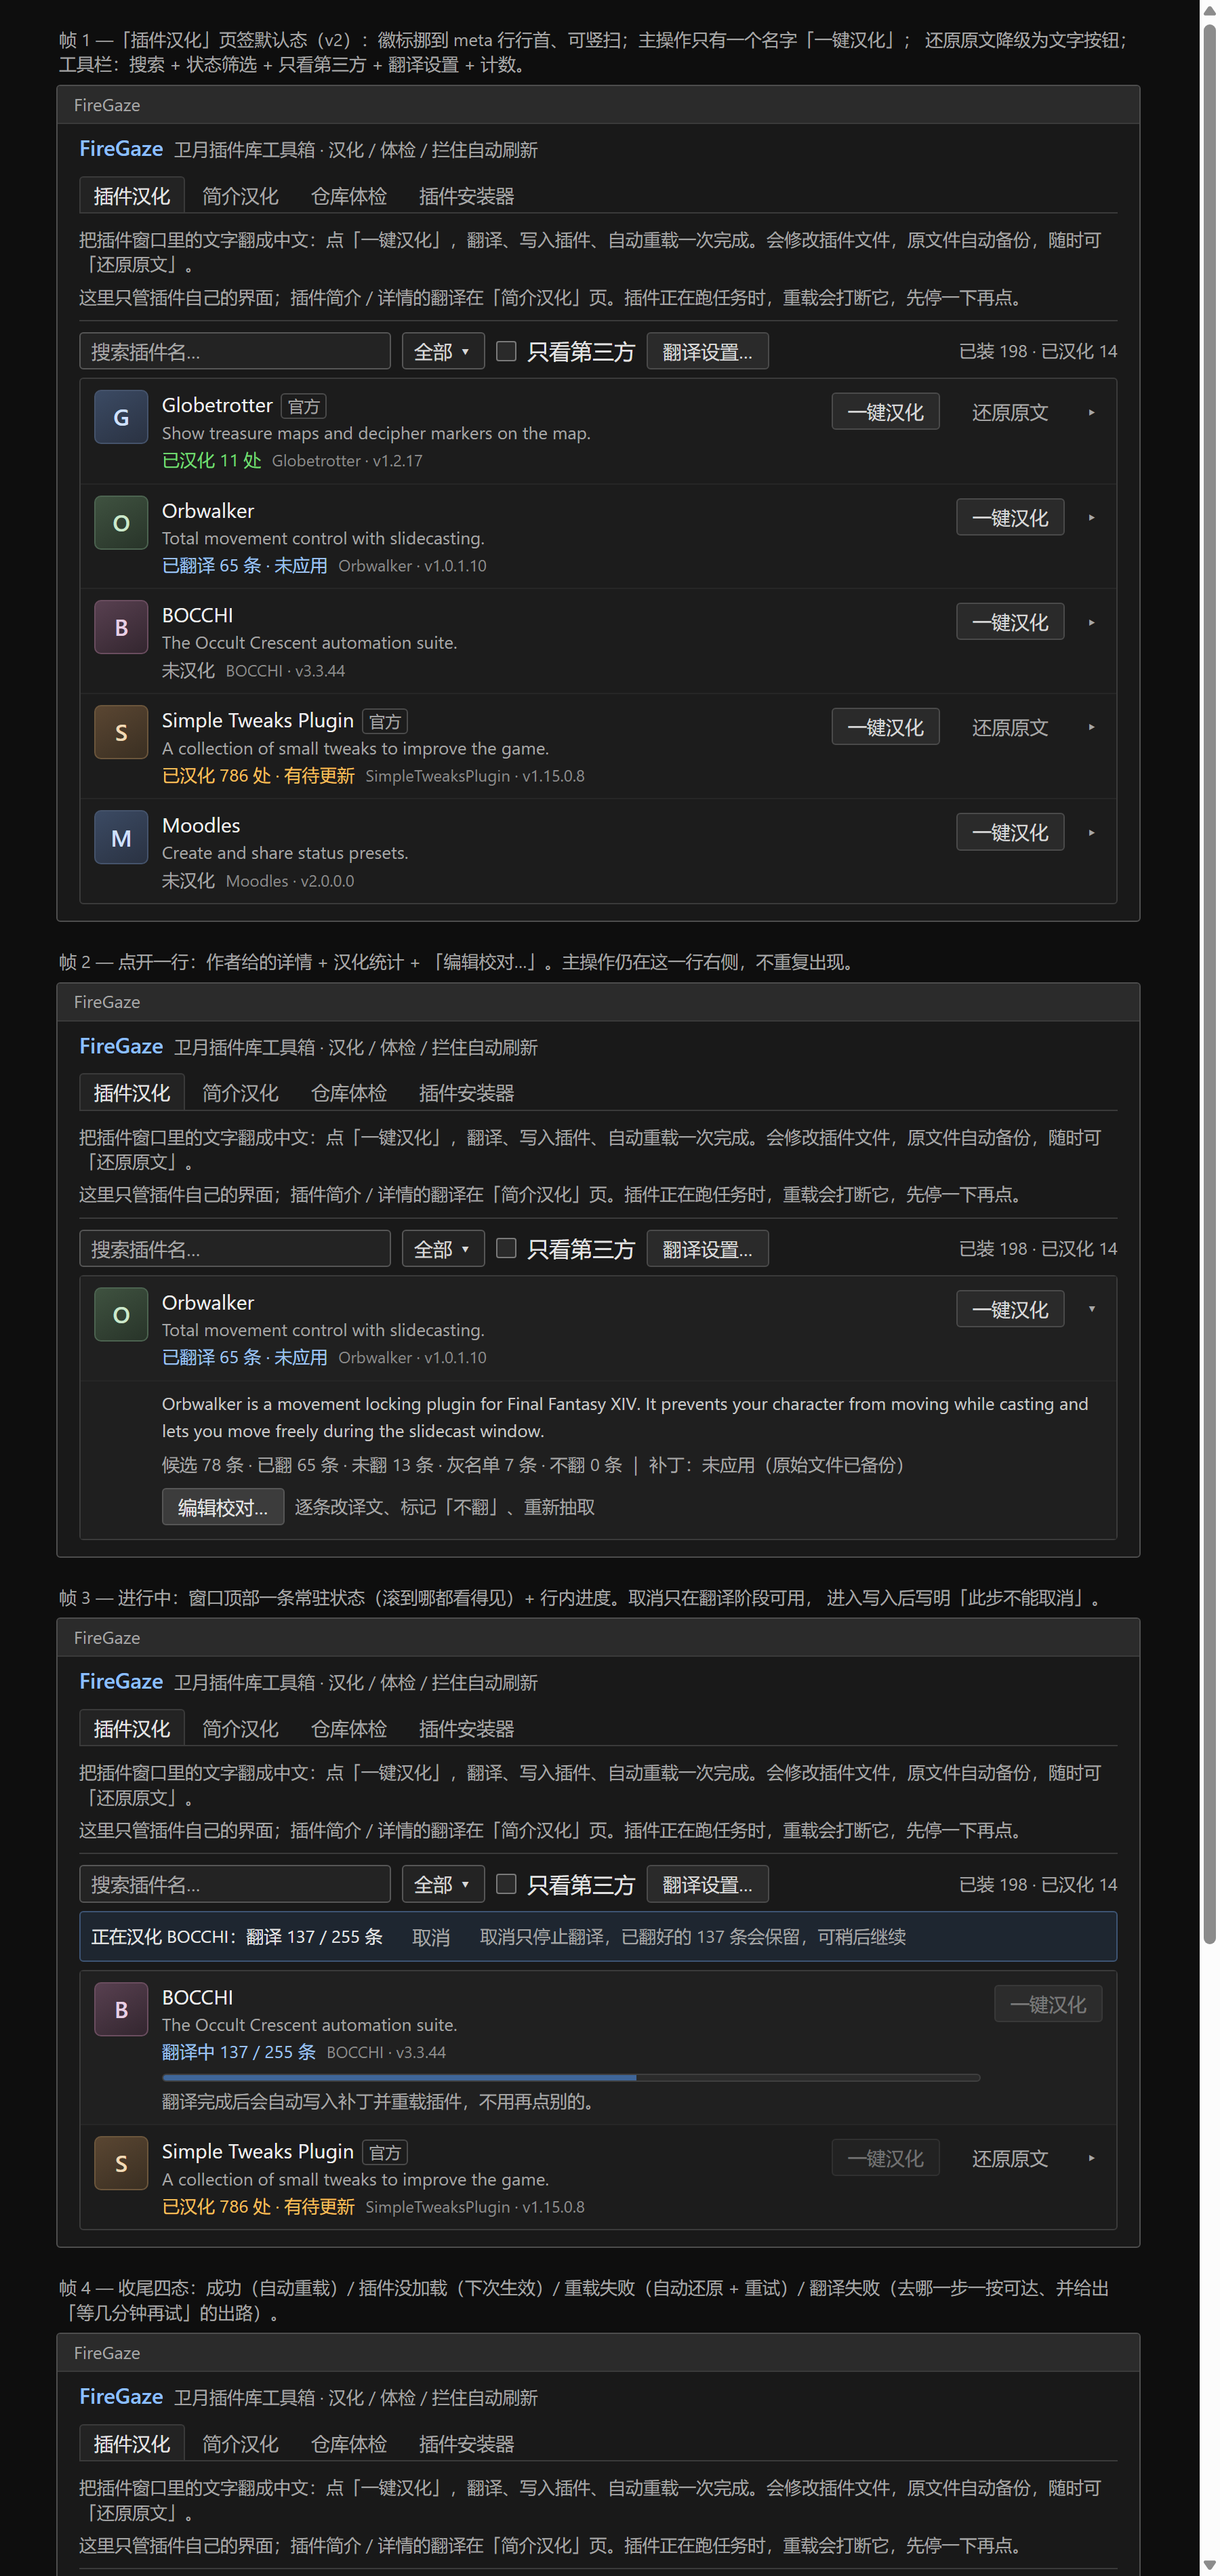
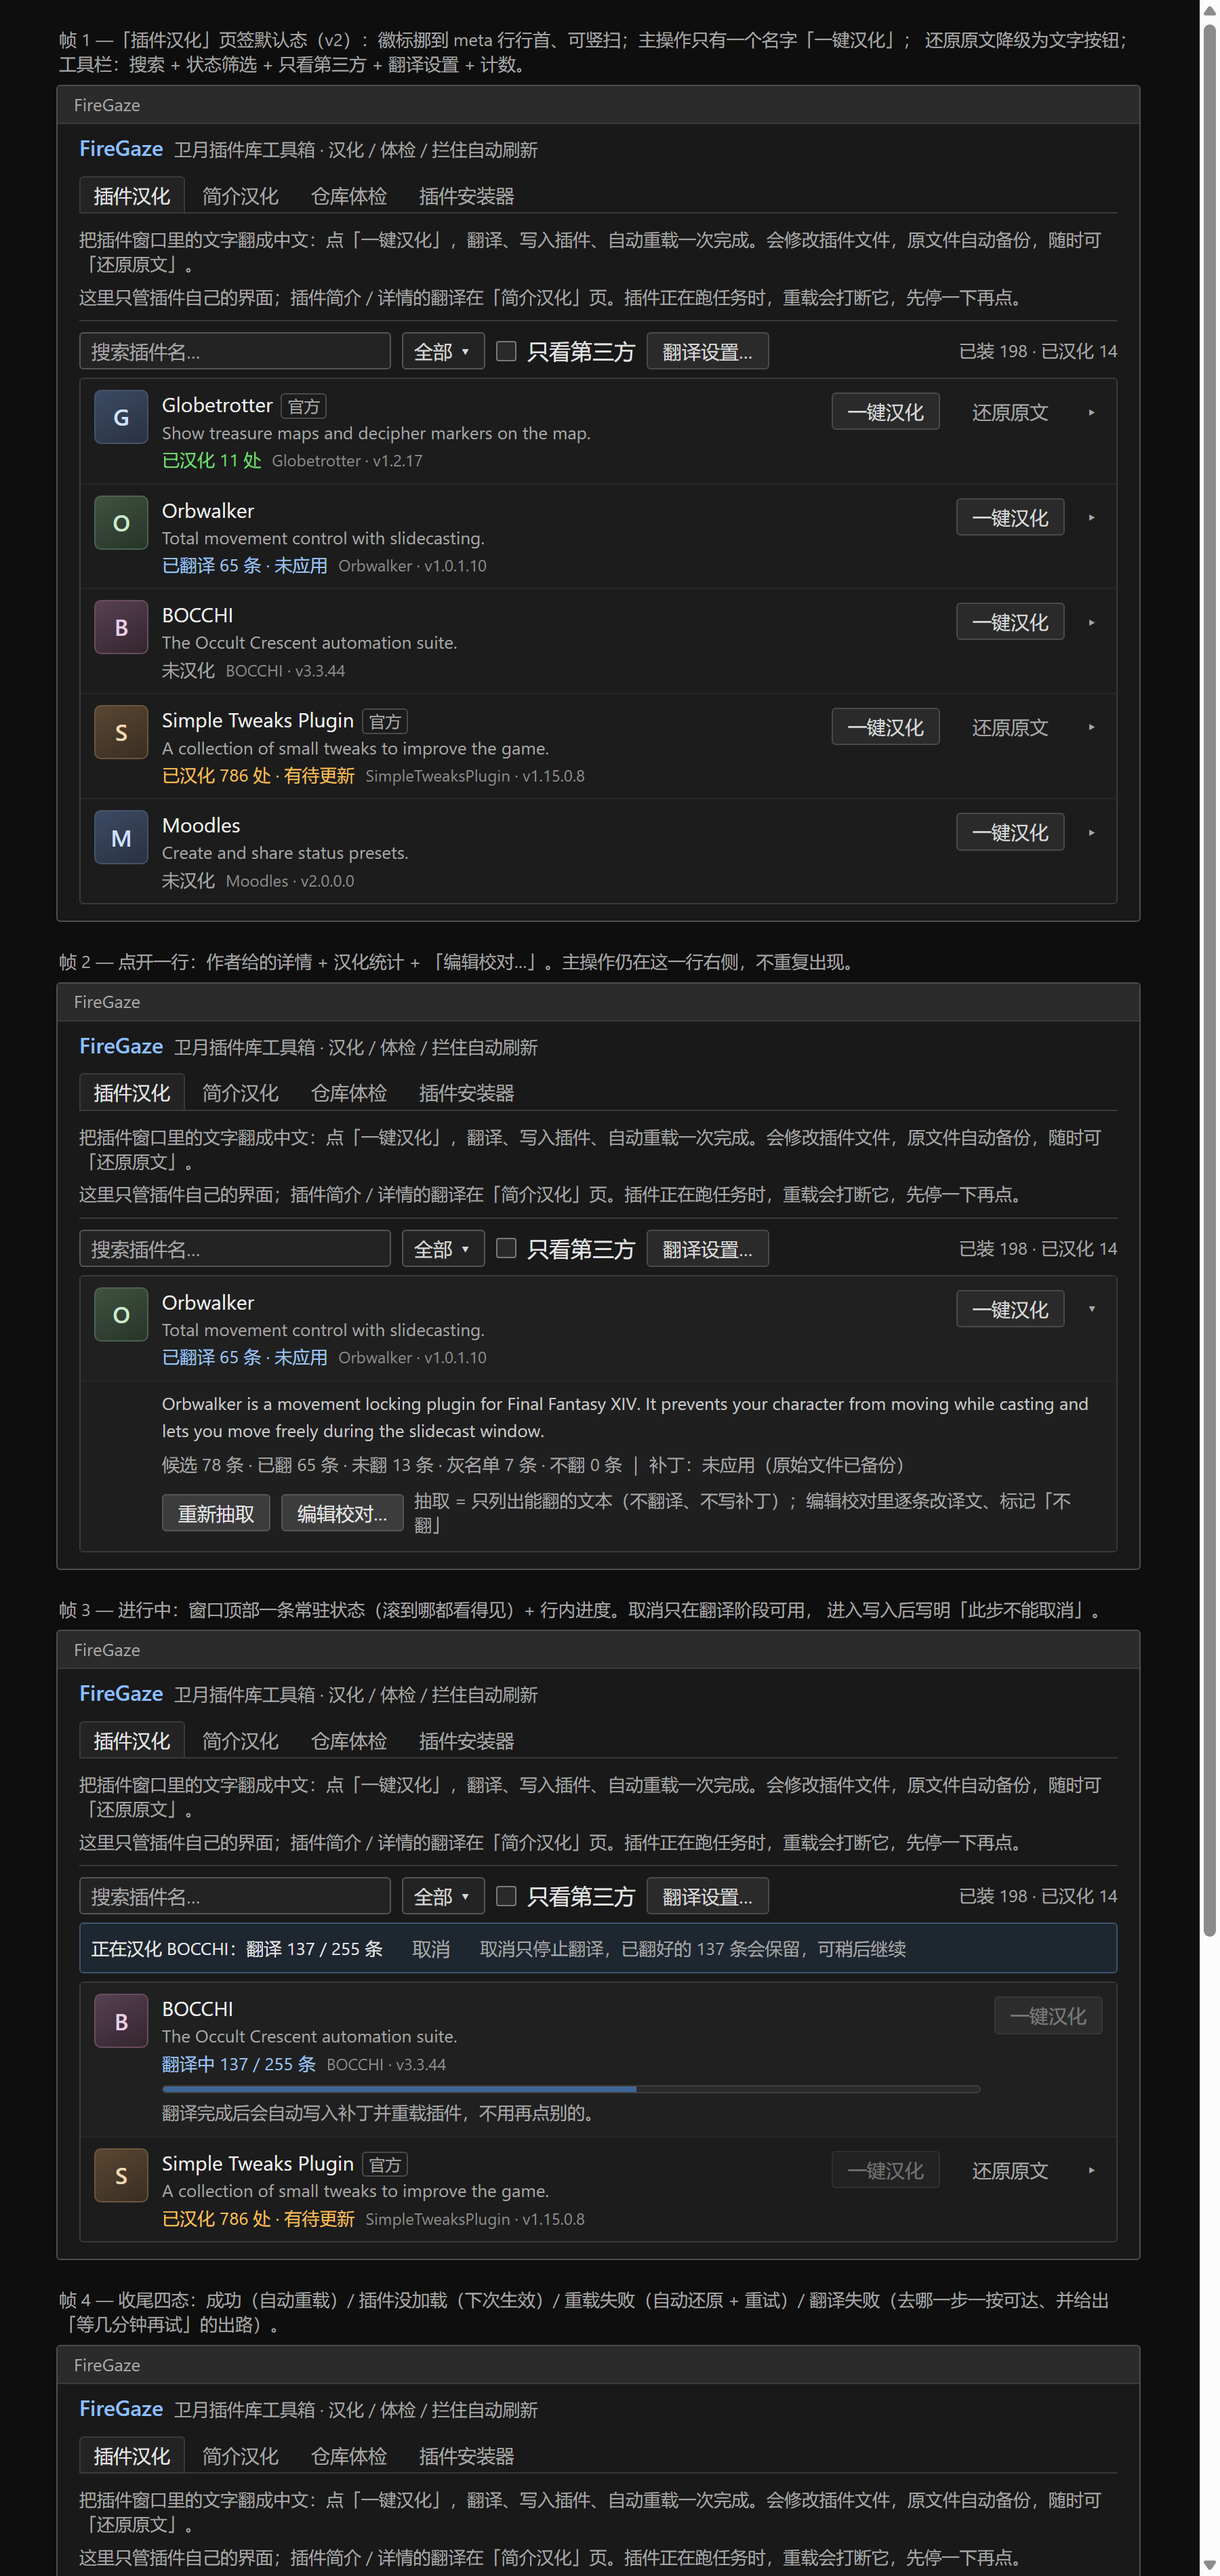
feat(uit): 详情区加「抽取界面文本 / 重新抽取」（只列候选，不翻译不写补丁）+ 还原图同步（1.2.0.44）

Changed region(s): [[0.0311, 0.5589, 0.9333, 1.0]]

diff --git a/Resources/ui-mockup-uitext-list-v2.html b/Resources/ui-mockup-uitext-list-v2.html
@@ -193,8 +193,9 @@
             <div class="desc">Orbwalker is a movement locking plugin for Final Fantasy XIV. It prevents your character from moving while casting and lets you move freely during the slidecast window.</div>
             <div class="stats">候选 78 条 · 已翻 65 条 · 未翻 13 条 · 灰名单 7 条 · 不翻 0 条 ｜ 补丁：未应用（原始文件已备份）</div>
             <div class="actions">
+              <span class="btn">重新抽取</span>
               <span class="btn">编辑校对…</span>
-              <span class="hint">逐条改译文、标记「不翻」、重新抽取</span>
+              <span class="hint">抽取 = 只列出能翻的文本（不翻译、不写补丁）；编辑校对里逐条改译文、标记「不翻」</span>
             </div>
           </div>
         </div>

diff --git a/src/FireGaze/UI/UITextTab.cs b/src/FireGaze/UI/UITextTab.cs
@@ -55,9 +55,19 @@ internal sealed class UITextTab
         public DateTime CreatedAt = DateTime.Now;
     }
 
+    private enum RunMode
+    {
+        /// <summary>一键汉化：抽取 → 翻译 → 写入 → 重载。</summary>
+        Full,
+
+        /// <summary>只抽取：列出候选与统计，不翻译、不写补丁。</summary>
+        ExtractOnly,
+    }
+
     private sealed class Run
     {
         public string InternalName = string.Empty;
+        public RunMode Mode = RunMode.Full;
         public string Stage = string.Empty;
         public bool CanCancel;
         public int Done;
@@ -212,7 +222,8 @@ internal sealed class UITextTab
         ImGui.PushStyleColor(ImGuiCol.ChildBg, new Vector4(0.12f, 0.15f, 0.19f, 1f));
         if (ImGui.BeginChild("###UITextRunning", new Vector2(0, ImGui.GetFrameHeight() + 8)))
         {
-            UiHelpers.ColoredText(run.CanCancel ? UiHelpers.Info : UiHelpers.Warn, $"正在汉化 {name}：{run.Stage}");
+            var verb = run.Mode == RunMode.ExtractOnly ? "正在抽取" : "正在汉化";
+            UiHelpers.ColoredText(run.CanCancel ? UiHelpers.Info : UiHelpers.Warn, $"{verb} {name}：{run.Stage}");
 
             if (run.CanCancel)
             {
@@ -364,7 +375,7 @@ internal sealed class UITextTab
         {
             ImGui.TableNextRow();
             ImGui.TableNextColumn();
-            this.DrawExpanded(plugin, info);
+            this.DrawExpanded(plugin, info, busy, editorOpen);
             ImGui.TableNextColumn();
         }
 
@@ -432,7 +443,7 @@ internal sealed class UITextTab
         }
     }
 
-    private void DrawExpanded(InstalledPluginEntry plugin, RowInfo? info)
+    private void DrawExpanded(InstalledPluginEntry plugin, RowInfo? info, bool busy, bool editorOpen)
     {
         ImGui.Indent(48f);
 
@@ -473,14 +484,38 @@ internal sealed class UITextTab
         }
 
         ImGui.Spacing();
+        var extracting = this.run is { Mode: RunMode.ExtractOnly } only
+                         && string.Equals(only.InternalName, plugin.InternalName, StringComparison.Ordinal);
+        ImGui.BeginDisabled(busy || editorOpen || extracting);
+        if (ImGui.Button(info is { HasPack: true } ? "重新抽取###UITextExtract" : "抽取界面文本###UITextExtract"))
+        {
+            this.StartExtract(plugin);
+        }
+
+        ImGui.EndDisabled();
+        if (ImGui.IsItemHovered(ImGuiHoveredFlags.AllowWhenDisabled))
+        {
+            ImGui.SetTooltip(extracting
+                ? "正在抽取…"
+                : busy || editorOpen
+                    ? "先把当前任务跑完再抽取。"
+                    : "只读一遍插件 DLL，列出能翻的界面文本（不翻译、不写补丁）。\n"
+                      + "插件更新过、或想先看看有多少文本，就点它；结果会记进本地包，编辑器里也能接着改。");
+        }
+
+        ImGui.SameLine();
+        ImGui.BeginDisabled(busy);
         if (ImGui.Button("编辑校对…###UITextOpenEditor"))
         {
             this.editor.OpenFor(plugin);
         }
 
-        if (ImGui.IsItemHovered())
+        ImGui.EndDisabled();
+        if (ImGui.IsItemHovered(ImGuiHoveredFlags.AllowWhenDisabled))
         {
-            ImGui.SetTooltip("逐条改译文、标记「不翻」、重新抽取。适合想自己核对的插件。");
+            ImGui.SetTooltip(busy
+                ? "先把当前任务跑完再进编辑器。"
+                : "逐条改译文、标记「不翻」、重新抽取。适合想自己核对的插件。");
         }
 
         ImGui.SameLine();
@@ -555,6 +590,32 @@ internal sealed class UITextTab
 
     // ── 一键汉化 ─────────────────────────────────────────────────────────
 
+    /// <summary>
+    ///     只抽取（不翻译、不写补丁）：把插件 DLL 里能翻的文本列出来并记进本地包。
+    /// </summary>
+    private void StartExtract(InstalledPluginEntry entry)
+    {
+        if (this.run is not null)
+        {
+            return;
+        }
+
+        if (!this.runs.TryEnter(entry.InternalName, "正在抽取 " + entry.DisplayName, out var reason))
+        {
+            this.notes[entry.InternalName] = new RowNote
+            {
+                Kind = NoteKind.Info,
+                Text = "另一个任务正在跑：" + reason + " 等它结束再点。",
+            };
+            return;
+        }
+
+        var run = new Run { InternalName = entry.InternalName, Mode = RunMode.ExtractOnly, Stage = "正在读取插件界面文本…" };
+        this.run = run;
+        this.notes.Remove(entry.InternalName);
+        run.Task = Task.Run(() => this.RunPipelineAsync(entry, run));
+    }
+
     private void StartOneClick(InstalledPluginEntry entry)
     {
         if (this.run is not null)
@@ -612,6 +673,20 @@ internal sealed class UITextTab
                     Kind = NoteKind.Info,
                     Text = "没找到可翻译的界面文本（插件可能带壳 / 加密，或界面本来就是中文）。",
                 });
+                return;
+            }
+
+            if (run.Mode == RunMode.ExtractOnly)
+            {
+                var summary = $"抽取完成：候选 {merge.UICount} 条 · 灰名单 {merge.AmbiguousCount} 条 · 已翻译 {pack.TranslatedCount} 条";
+                if (merge.Prune.Any)
+                {
+                    summary += " · " + merge.Prune.Describe();
+                }
+
+                summary += "。要翻译就点「一键汉化」，要逐条看就点「编辑校对…」。";
+                this.FinishRun(run, new RowNote { Kind = NoteKind.Good, Text = summary });
+                this.rowsDirty = true;
                 return;
             }
 

diff --git a/docs/uitrans.md b/docs/uitrans.md
@@ -70,7 +70,7 @@ UI 调用识别：类型名含 `ImGui`（`Dalamud.Bindings.ImGui.*` / 旧 `ImGui
 - 主窗口第 1 个页签「**插件汉化**」（顺序：插件汉化 → 简介汉化 → 仓库体检 → 插件安装器；
   「参与翻译」是独立窗口。这里只管插件自己的窗口文字，插件简介在「简介汉化」页）：
   一行一个插件 = 图标 + 标题 + 一行简介 + 状态徽标（行首、固定 x，方便竖扫）+ 「一键汉化」；
-  点开一行看详情（作者介绍 + 统计）与「编辑校对…」；工具栏 = 刷新 / 搜索 / 状态筛选 / 只看第三方 / 翻译设置…；
+  点开一行看详情（作者介绍 + 统计）+ 「抽取界面文本 / 重新抽取」（只列候选、不翻译不写盘）+「编辑校对…」；工具栏 = 刷新 / 搜索 / 状态筛选 / 只看第三方 / 翻译设置…；
   有任务时窗口顶部常驻进度条（滚到哪都看得见）。
 - **一键汉化** = 抽取 → 翻译没翻的条目 → 写入插件 DLL → **自动重载插件**，一次点完；
   取消只在翻译阶段可用（已翻的条目会保留），写入阶段写明「此步不能取消」。失败给下一步：重试 / 打开翻译设置。
